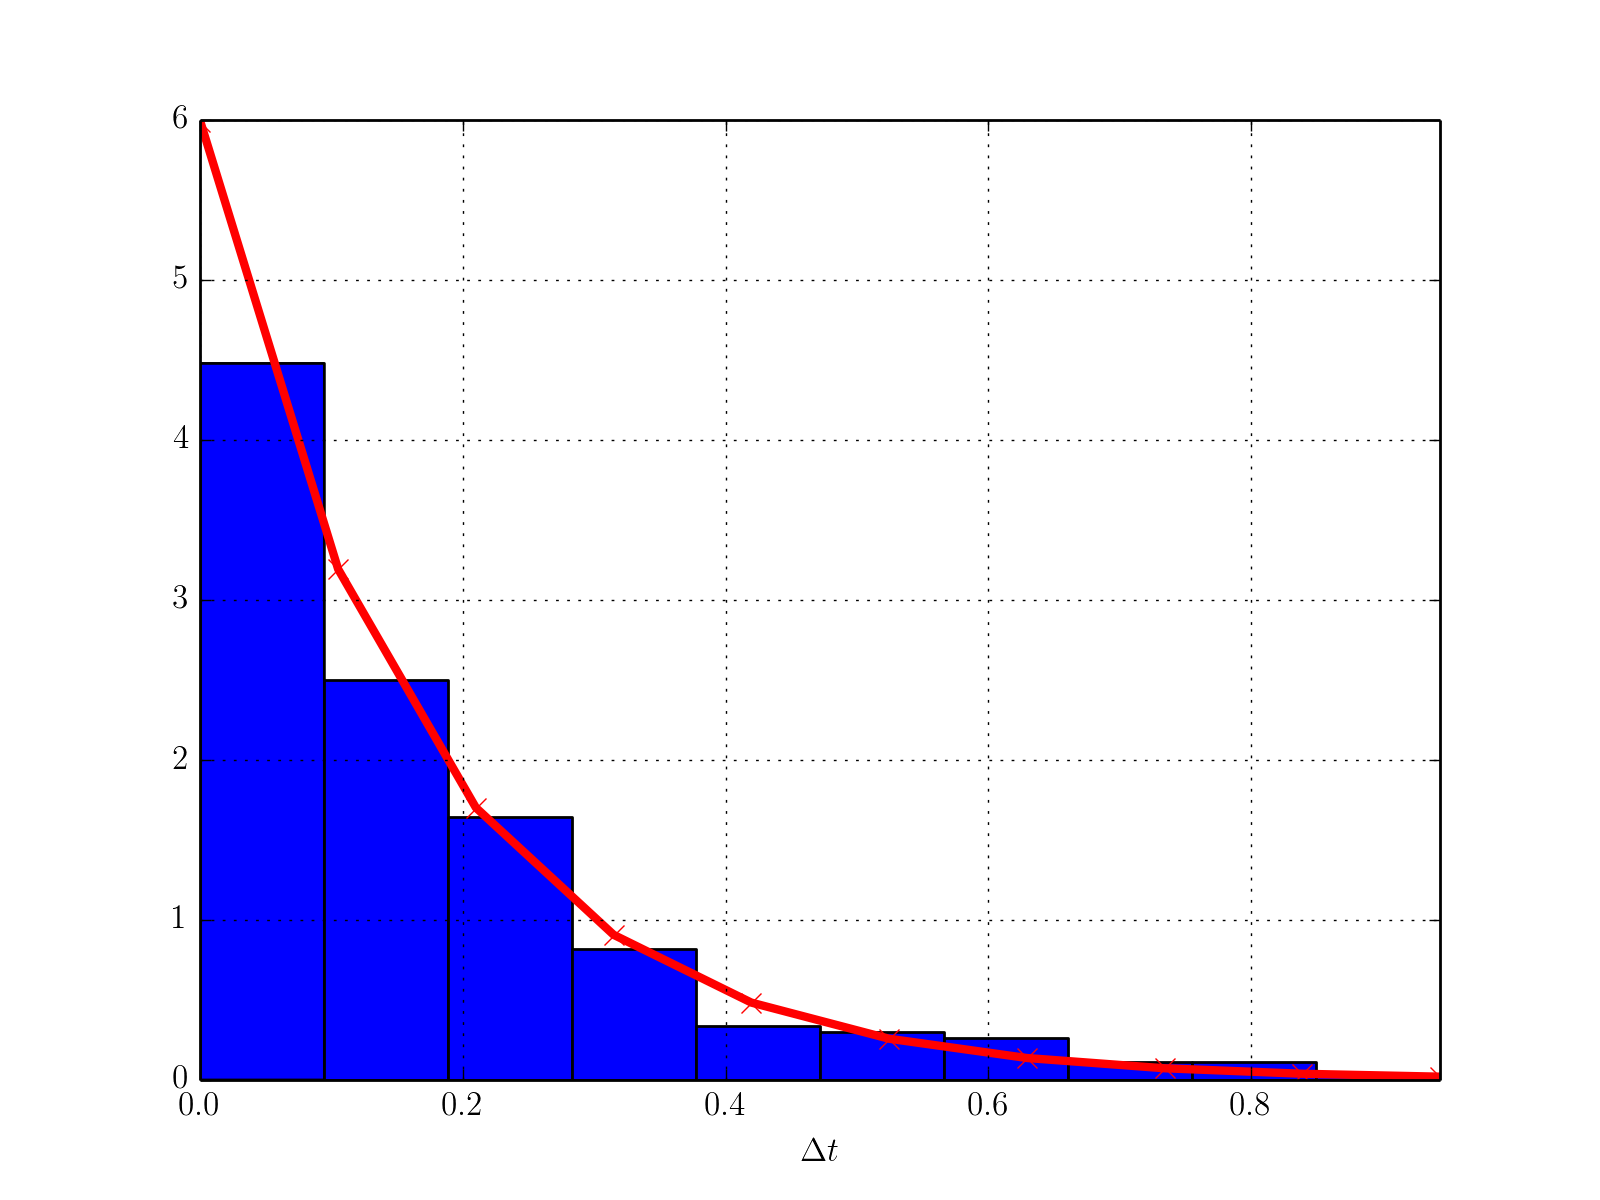
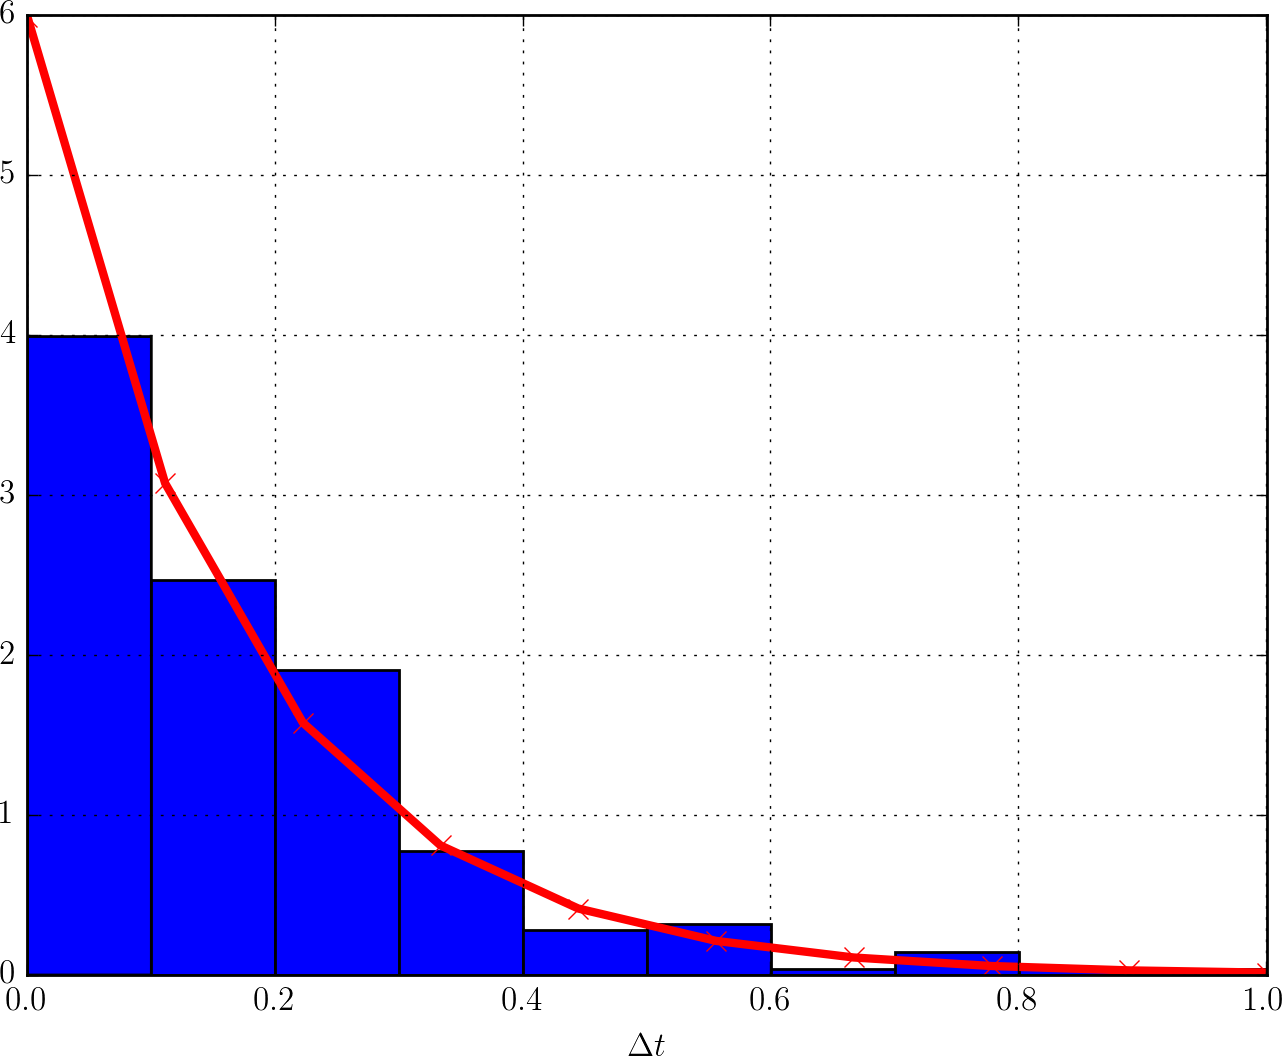
SlP lab_6: add lambda estimate

diff --git a/discipline/SlP/lab_6/report/code/code.py b/discipline/SlP/lab_6/report/code/code.py
@@ -1,140 +1,149 @@
- #!/usr/bin/env python3
+#!/usr/bin/env python3
 
- import math
- import random
+import math
+import random
 
- import numpy as np
- import matplotlib.pyplot as plt
+import numpy as np
+import matplotlib.pyplot as plt
 
- plt.rc('text', usetex=True)
- plt.rc('font', family='serif')
+plt.rc('text', usetex=True)
+plt.rc('font', family='serif')
 
- def event_idx(sum_event_probs, val):
-     for i, prob in enumerate(sum_event_probs):
-         if val < prob:
-             return i
+def avg(vals):
+    res = 0
+    for val in vals:
+        res += val
+    return res / len(vals)
 
- def _gen_event(event_probs, eps_prob=0.00001):
-     sum_ps = event_probs[:]
+def event_idx(sum_event_probs, val):
+    for i, prob in enumerate(sum_event_probs):
+        if val < prob:
+            return i
 
-     for i in range(1, len(sum_ps)):
-         sum_ps[i] = sum_ps[i-1] + sum_ps[i]
+def _gen_event(event_probs, eps_prob=0.00001):
+    sum_ps = event_probs[:]
 
-     if (abs(sum_ps[-1]-1) > eps_prob):
-         raise ValueError(
-             "Sum of event probabilities ({}) != 1".format(
-                 sum_ps[-1])
-         )
+    for i in range(1, len(sum_ps)):
+        sum_ps[i] = sum_ps[i-1] + sum_ps[i]
 
-     v = random.uniform(0, 1)
-     return event_idx(sum_ps, v)
+    if (abs(sum_ps[-1]-1) > eps_prob):
+        raise ValueError(
+            "Sum of event probabilities ({}) != 1".format(
+                sum_ps[-1])
+        )
 
- def _puasson_probs(t, lambd, eps_prob=0.00001):
-     probs = []
-     delta_prob = 1
-     k = 0
-     k_fact = 1 # == k!
+    v = random.uniform(0, 1)
+    return event_idx(sum_ps, v)
 
-     while delta_prob > eps_prob:
-         cur_prob = (lambd * t) ** k
-         cur_prob /= k_fact
-         cur_prob *= math.exp(-lambd * t)
+def _puasson_probs(t, lambd, eps_prob=0.00001):
+    probs = []
+    delta_prob = 1
+    k = 0
+    k_fact = 1 # == k!
 
-         probs.append(cur_prob)
-         delta_prob -= cur_prob
+    while delta_prob > eps_prob:
+        cur_prob = (lambd * t) ** k
+        cur_prob /= k_fact
+        cur_prob *= math.exp(-lambd * t)
 
-         k += 1
-         k_fact *= k
+        probs.append(cur_prob)
+        delta_prob -= cur_prob
 
-     probs.append(delta_prob)
+        k += 1
+        k_fact *= k
 
-     return probs
+    probs.append(delta_prob)
+
+    return probs
 
 
 
- def puasson_1(a, b, lambd):
-     t = [a]
-     sum_t = a
+def puasson_1(a, b, lambd):
+    t = [a]
+    sum_t = a
 
-     while sum_t <= b:
-         dt = random.expovariate(lambd)
-         t.append(dt)
-         sum_t += dt
+    while sum_t <= b:
+        dt = random.expovariate(lambd)
+        t.append(dt)
+        sum_t += dt
 
-     for i in range(1, len(t)):
-         t[i] += t[i-1]
+    for i in range(1, len(t)):
+        t[i] += t[i-1]
 
-     if t[-1] > b:
-         del t[-1]
+    if t[-1] > b:
+        del t[-1]
 
-     return t
+    return t
 
- def puasson_2(a, b, lambd):
-     t = []
+def puasson_2(a, b, lambd):
+    t = []
 
-     probs = _puasson_probs(b-a, lambd)
-     n = _gen_event(probs)
+    probs = _puasson_probs(b-a, lambd)
+    n = _gen_event(probs)
 
-     for _ in range(n):
-         t.append(random.uniform(a, b))
+    for _ in range(n):
+        t.append(random.uniform(a, b))
 
-     return sorted(t)
+    return sorted(t)
 
- def to_delta(values):
-     delta_values = []
-     for i in range(1,len(values)):
-         delta_values.append(values[i] - values[i-1])
+def to_delta(values):
+    delta_values = []
+    for i in range(1,len(values)):
+        delta_values.append(values[i] - values[i-1])
 
-     return delta_values
+    return delta_values
 
- NUM_BINS = 10
+NUM_BINS = 10
 
- a = 0
- b = 50
- lambd = 6
+a = 0
+b = 50
+lambd = 6
 
- puasson_values_1 = puasson_1(a, b, lambd)
- puasson_values_2 = puasson_2(a, b, lambd)
+puasson_values_1 = puasson_1(a, b, lambd)
+puasson_values_2 = puasson_2(a, b, lambd)
 
- delta_puasson_values_1 = to_delta(puasson_values_1)
- delta_puasson_values_2 = to_delta(puasson_values_2)
+delta_puasson_values_1 = to_delta(puasson_values_1)
+delta_puasson_values_2 = to_delta(puasson_values_2)
 
- puasson_delta_1 = np.linspace(min(delta_puasson_values_1),
-                               max(delta_puasson_values_1),
-                               NUM_BINS)
- puasson_density_1 = np.exp(-puasson_delta_1*lambd)*lambd
+print("Lambda estimate 1:", 1/avg(delta_puasson_values_1))
+print("Lambda estimate 2:", 1/avg(delta_puasson_values_2))
 
- puasson_delta_2 = np.linspace(min(delta_puasson_values_2),
-                               max(delta_puasson_values_2),
-                               NUM_BINS)
- puasson_density_2 = np.exp(-puasson_delta_2*lambd)*lambd
+puasson_delta_1 = np.linspace(min(delta_puasson_values_1),
+                              max(delta_puasson_values_1),
+                              NUM_BINS)
+puasson_density_1 = np.exp(-puasson_delta_1*lambd)*lambd
 
- plt.figure(0)
- plt.grid(True)
- plt.axis([a, b, 0.5, 2.5])
- plt.xlabel('$ t $')
- plt.plot(puasson_values_1, [1 for _ in puasson_values_1],
-          marker='.', linestyle=' ', markersize=5)
- plt.plot(puasson_values_2, [2 for _ in puasson_values_2],
-          marker='.', linestyle=' ', markersize=5)
- plt.savefig("times.png", dpi=200)
+puasson_delta_2 = np.linspace(min(delta_puasson_values_2),
+                              max(delta_puasson_values_2),
+                              NUM_BINS)
+puasson_density_2 = np.exp(-puasson_delta_2*lambd)*lambd
 
- plt.figure(1)
- plt.grid(True)
- plt.xlabel('$ \\Delta t $')
- plt.hist(delta_puasson_values_1, NUM_BINS, normed=True)
- plt.plot(puasson_delta_1, puasson_density_1, color="red",
-          marker='x', linestyle='-', linewidth=3, markersize=7)
- plt.axis([0, max(delta_puasson_values_1), 0, 6])
- plt.savefig("hist_1.png", dpi=200)
+plt.figure(0)
+plt.grid(True)
+plt.axis([a, b, 0.5, 2.5])
+plt.xlabel('$ t $')
+plt.plot(puasson_values_1, [1 for _ in puasson_values_1],
+         marker='.', linestyle=' ', markersize=5)
+plt.plot(puasson_values_2, [2 for _ in puasson_values_2],
+         marker='.', linestyle=' ', markersize=5)
+plt.savefig("times.png", dpi=200)
 
- plt.figure(2)
- plt.grid(True)
- plt.xlabel('$ \\Delta t $')
- plt.hist(delta_puasson_values_2, NUM_BINS, normed=True)
- plt.plot(puasson_delta_2, puasson_density_2, color="red",
-          marker='x', linestyle='-', linewidth=3, markersize=5)
- plt.axis([0, max(delta_puasson_values_2), 0, 6])
- plt.savefig("hist_2.png", dpi=200)
+plt.figure(1)
+plt.grid(True)
+plt.xlabel('$ \\Delta t $')
+plt.hist(delta_puasson_values_1, NUM_BINS, normed=True)
+plt.plot(puasson_delta_1, puasson_density_1, color="red",
+         marker='x', linestyle='-', linewidth=3, markersize=7)
+plt.axis([0, max(delta_puasson_values_1), 0, 6])
+plt.savefig("hist_1.png", dpi=200)
 
- plt.show()
+plt.figure(2)
+plt.grid(True)
+plt.xlabel('$ \\Delta t $')
+plt.hist(delta_puasson_values_2, NUM_BINS, normed=True)
+plt.plot(puasson_delta_2, puasson_density_2, color="red",
+         marker='x', linestyle='-', linewidth=3, markersize=5)
+plt.axis([0, max(delta_puasson_values_2), 0, 6])
+plt.savefig("hist_2.png", dpi=200)
+
+plt.show()

diff --git a/discipline/SlP/lab_6/report/text/process.tex b/discipline/SlP/lab_6/report/text/process.tex
@@ -2,7 +2,7 @@
 
 \subsection{Формулировка задачи}
 
-Требуется выполнить моделирование реализаций простейшего потока двумя
+Требуется выполнить моделирование простейшего потока событий
 приведенными в подразделе~\ref{subs:theory} алгоритмами. Вывести графическую
 иллюстрацию потоков в виде нанесения на ось абсцисс моментов появления
 требований и концов промежутка $(a,b)$. Параметры потока для моделирования:
@@ -23,7 +23,7 @@
 выборки при построении гистограммы, $ \Delta_{(n)}, \Delta_{(n)} $ ---
 минимальный и максимальный из интервалов времени между требованиями соответственно.
 
-Требуется также получить оценку $\overline{\lambda}$ параметра $\lambda$ потока.
+Кроме этого, требуется получить оценку $\overline{\lambda}$ параметра $\lambda$ потока. 
 
 
 \subsection{Теоретические сведения}
@@ -101,22 +101,32 @@ $T$ и является функцией только $k$ и $t$: $p_k = p_k(k,t
   \label{pic:times}
 \end{figure}
 
-Исходный код разработанной программы представлен в приложении~А.
-
-\newpage
-
 На рисунках~\ref{pic:hist_1}~и~\ref{pic:hist_2} приведены гистограммы и плотности вероятности распределения промежутков времени между соседними заявками пуассоновского потока в СМО.
 
 \begin{figure}[h!]
   \centering
   \includegraphics[width=150mm, height=85mm]{pic/hist_1}
-  \caption{Гистограмма и плотность вероятности между соседними заявками пуассоновского потока, построенного с помощью алгоритма 1}
+  \caption{Гистограмма и плотность вероятности промежутков времени
+    между соседними заявками пуассоновского потока,
+    построенного с помощью алгоритма 1}
   \label{pic:hist_1}
 \end{figure}
 
 \begin{figure}[h!]
   \centering
   \includegraphics[width=150mm, height=85mm]{pic/hist_2}
-  \caption{Гистограмма и плотность вероятности между соседними заявками пуассоновского потока, построенного с помощью алгоритма 2}
+  \caption{Гистограмма и плотность вероятности промежутков времени 
+    между соседними заявками пуассоновского потока, 
+    построенного с помощью алгоритма 2}
   \label{pic:hist_2}
 \end{figure}
+
+Оценка параметра $\lambda$ можно найти как математическое ожидание
+значений промежутков времени между соседними заявками пуассоновского потока:
+\begin{equation*}
+  \hat{\lambda} = E[\Delta]^{-1}, \:
+  \hat{\lambda}_1 = 5{,}67, \:
+  \hat{\lambda}_2 = 5{,}83.
+\end{equation*}
+
+Исходный код разработанной программы представлен в приложении~А.
